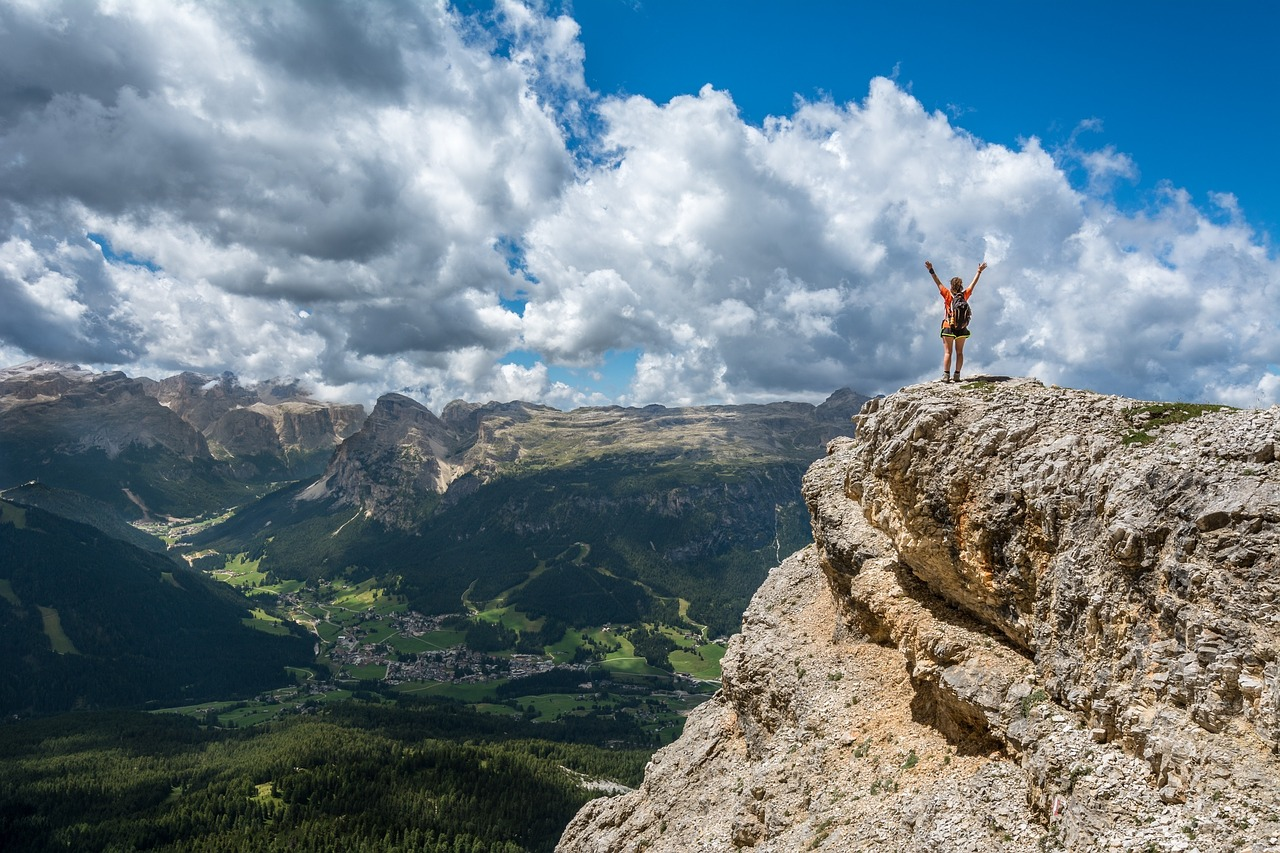
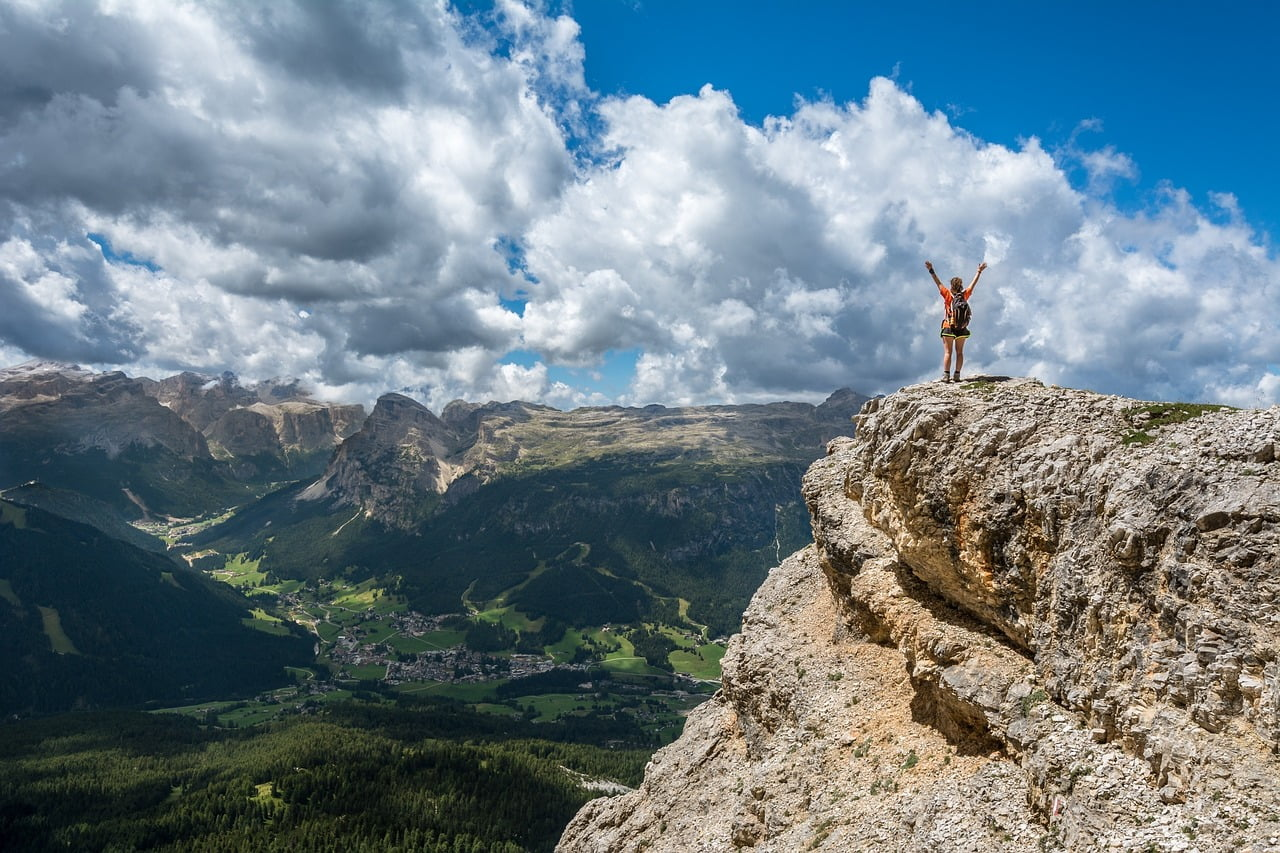
compress images

diff --git a/about.html b/about.html
@@ -8,7 +8,7 @@
 	<title>Mountainiary: Guided Trips to Mountain</title>
 	<link href="https://fonts.googleapis.com/css?family=Open+Sans|Quicksand" rel="stylesheet">
 	<link rel="stylesheet" href="https://use.fontawesome.com/releases/v5.4.1/css/all.css" integrity="sha384-5sAR7xN1Nv6T6+dT2mhtzEpVJvfS3NScPQTrOxhwjIuvcA67KV2R5Jz6kr4abQsz" crossorigin="anonymous">
-	<link rel="stylesheet" href="style.css">
+	<link rel="stylesheet" href="styles.css">
 	<link rel="canonical" href="https://mountainiary.surge.sh/">
 </head>
 

diff --git a/index.html b/index.html
@@ -8,7 +8,7 @@
 	<title>Mountainiary: Guided Trips to Mountain</title>
 	<link href="https://fonts.googleapis.com/css?family=Open+Sans|Quicksand" rel="stylesheet">
 	<link rel="stylesheet" href="https://use.fontawesome.com/releases/v5.4.1/css/all.css" integrity="sha384-5sAR7xN1Nv6T6+dT2mhtzEpVJvfS3NScPQTrOxhwjIuvcA67KV2R5Jz6kr4abQsz" crossorigin="anonymous">
-	<link rel="stylesheet" href="style.css">
+	<link rel="stylesheet" href="styles.css">
 	<link rel="canonical" href="https://mountainiary.surge.sh/">
 </head>
 

diff --git a/pricing.html b/pricing.html
@@ -8,7 +8,7 @@
 	<title>Mountainiary: Guided Trips to Mountain</title>
 	<link href="https://fonts.googleapis.com/css?family=Open+Sans|Quicksand" rel="stylesheet">
 	<link rel="stylesheet" href="https://use.fontawesome.com/releases/v5.4.1/css/all.css" integrity="sha384-5sAR7xN1Nv6T6+dT2mhtzEpVJvfS3NScPQTrOxhwjIuvcA67KV2R5Jz6kr4abQsz" crossorigin="anonymous">
-	<link rel="stylesheet" href="style.css">
+	<link rel="stylesheet" href="styles.css">
 	<link rel="canonical" href="https://mountainiary.surge.sh/">
 </head>
 
